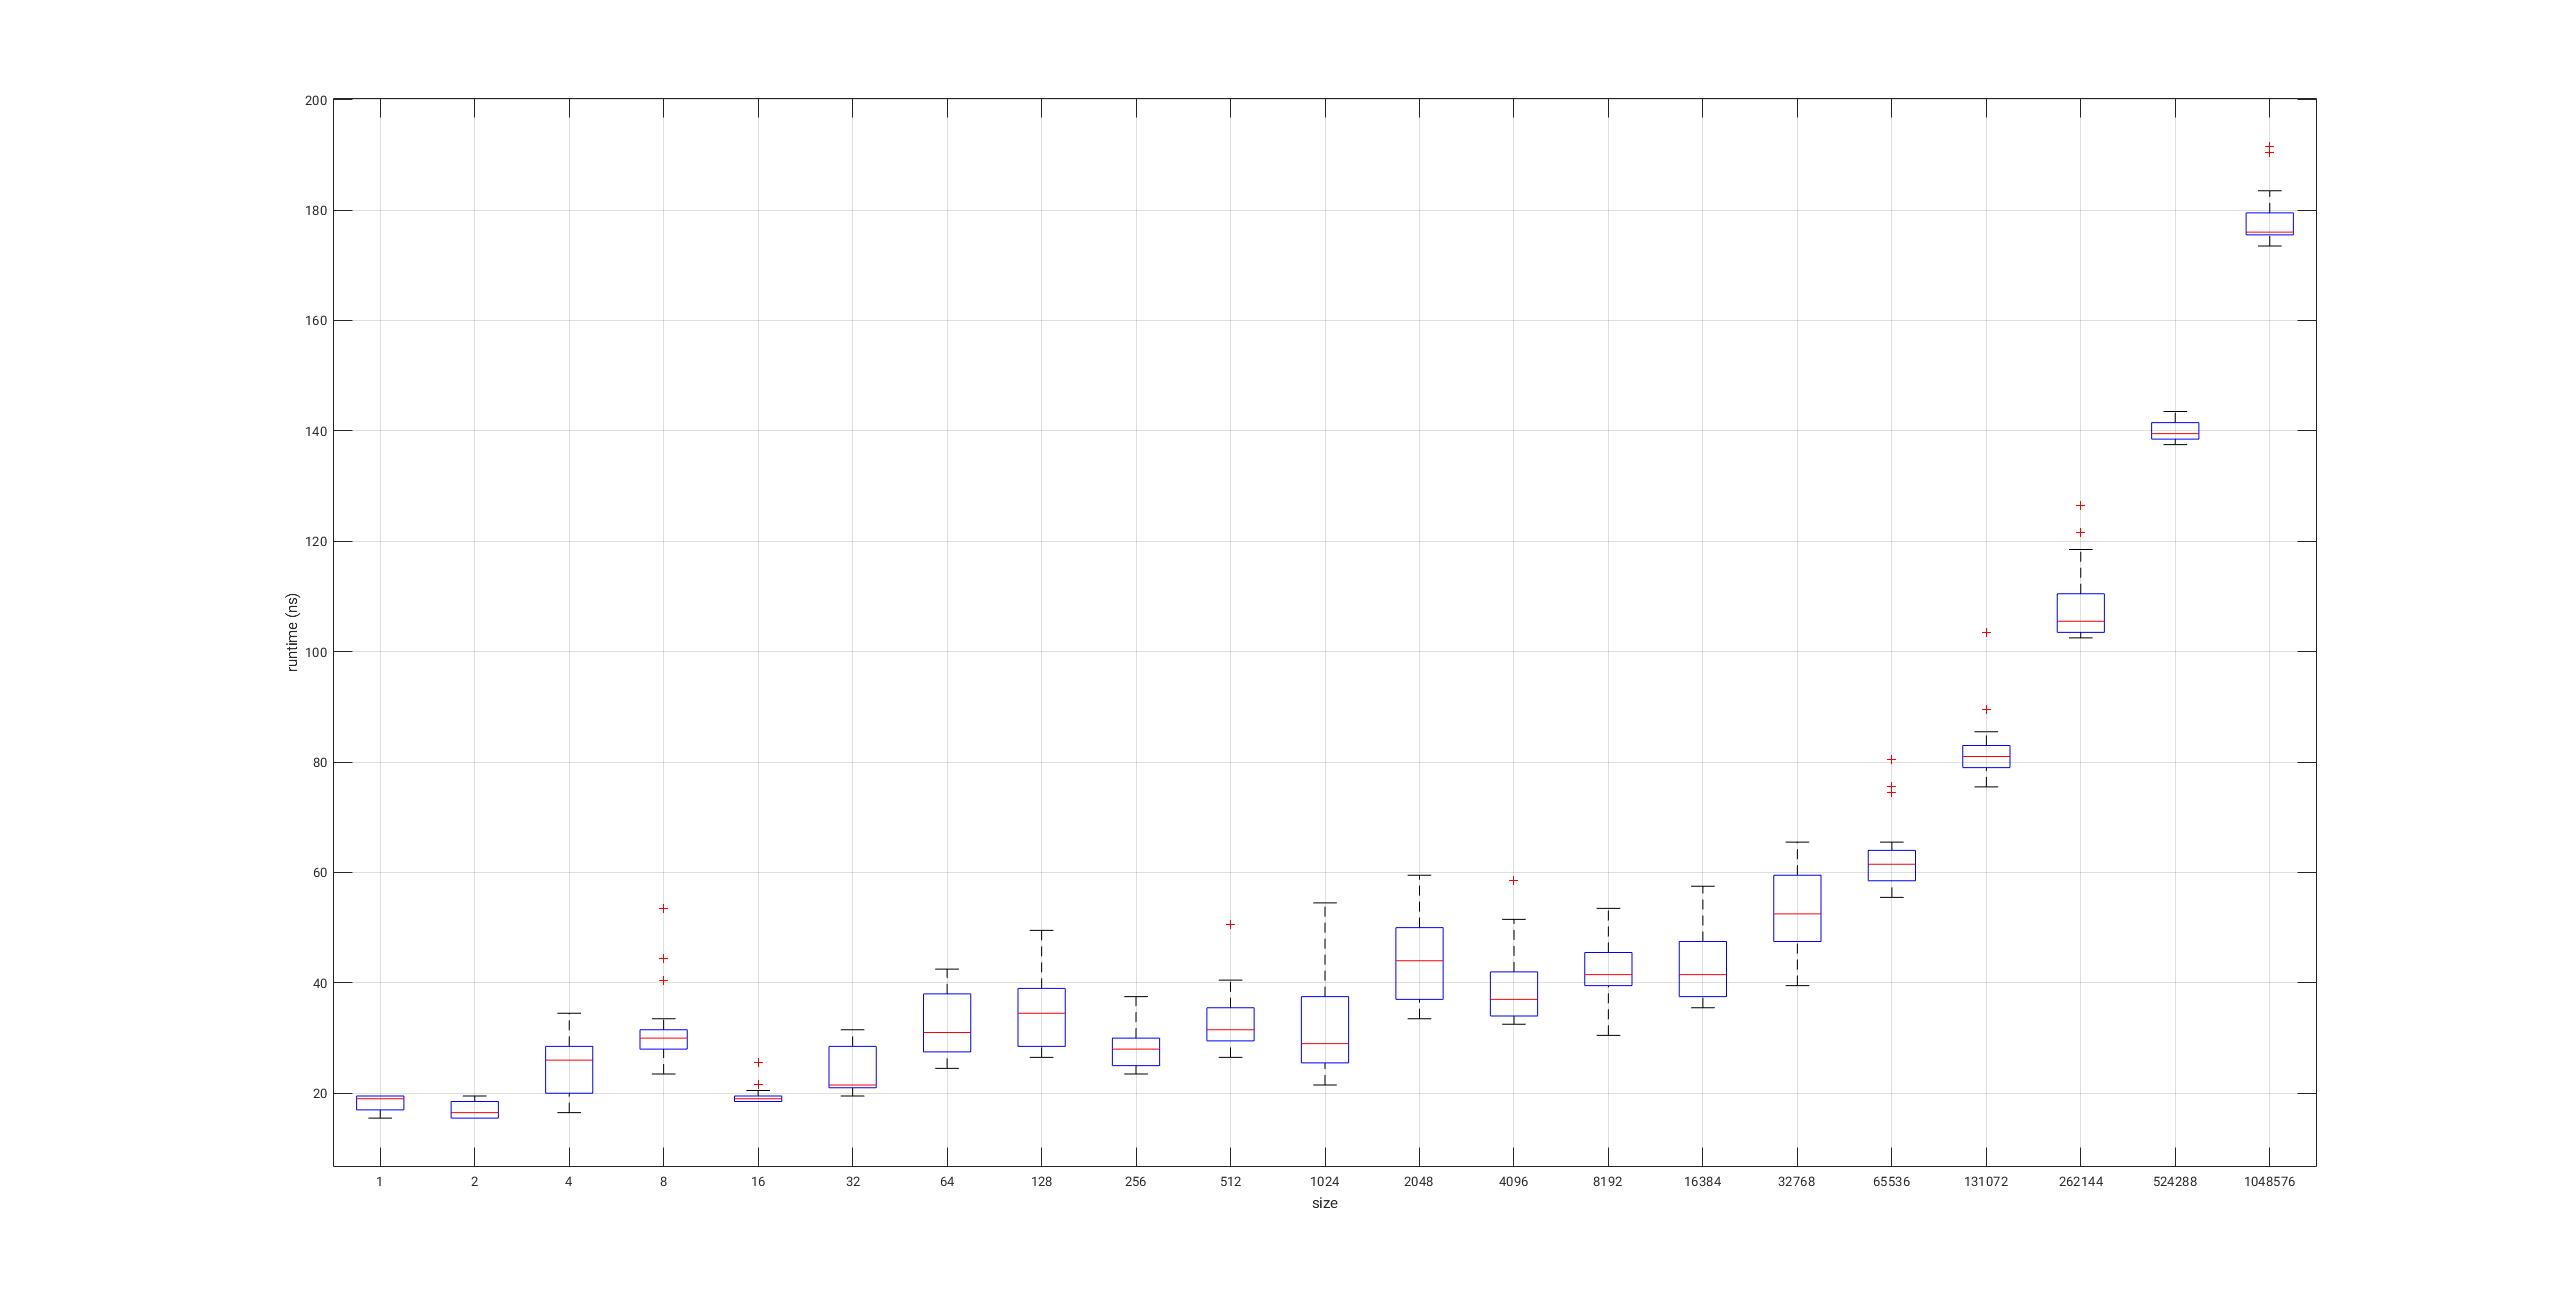
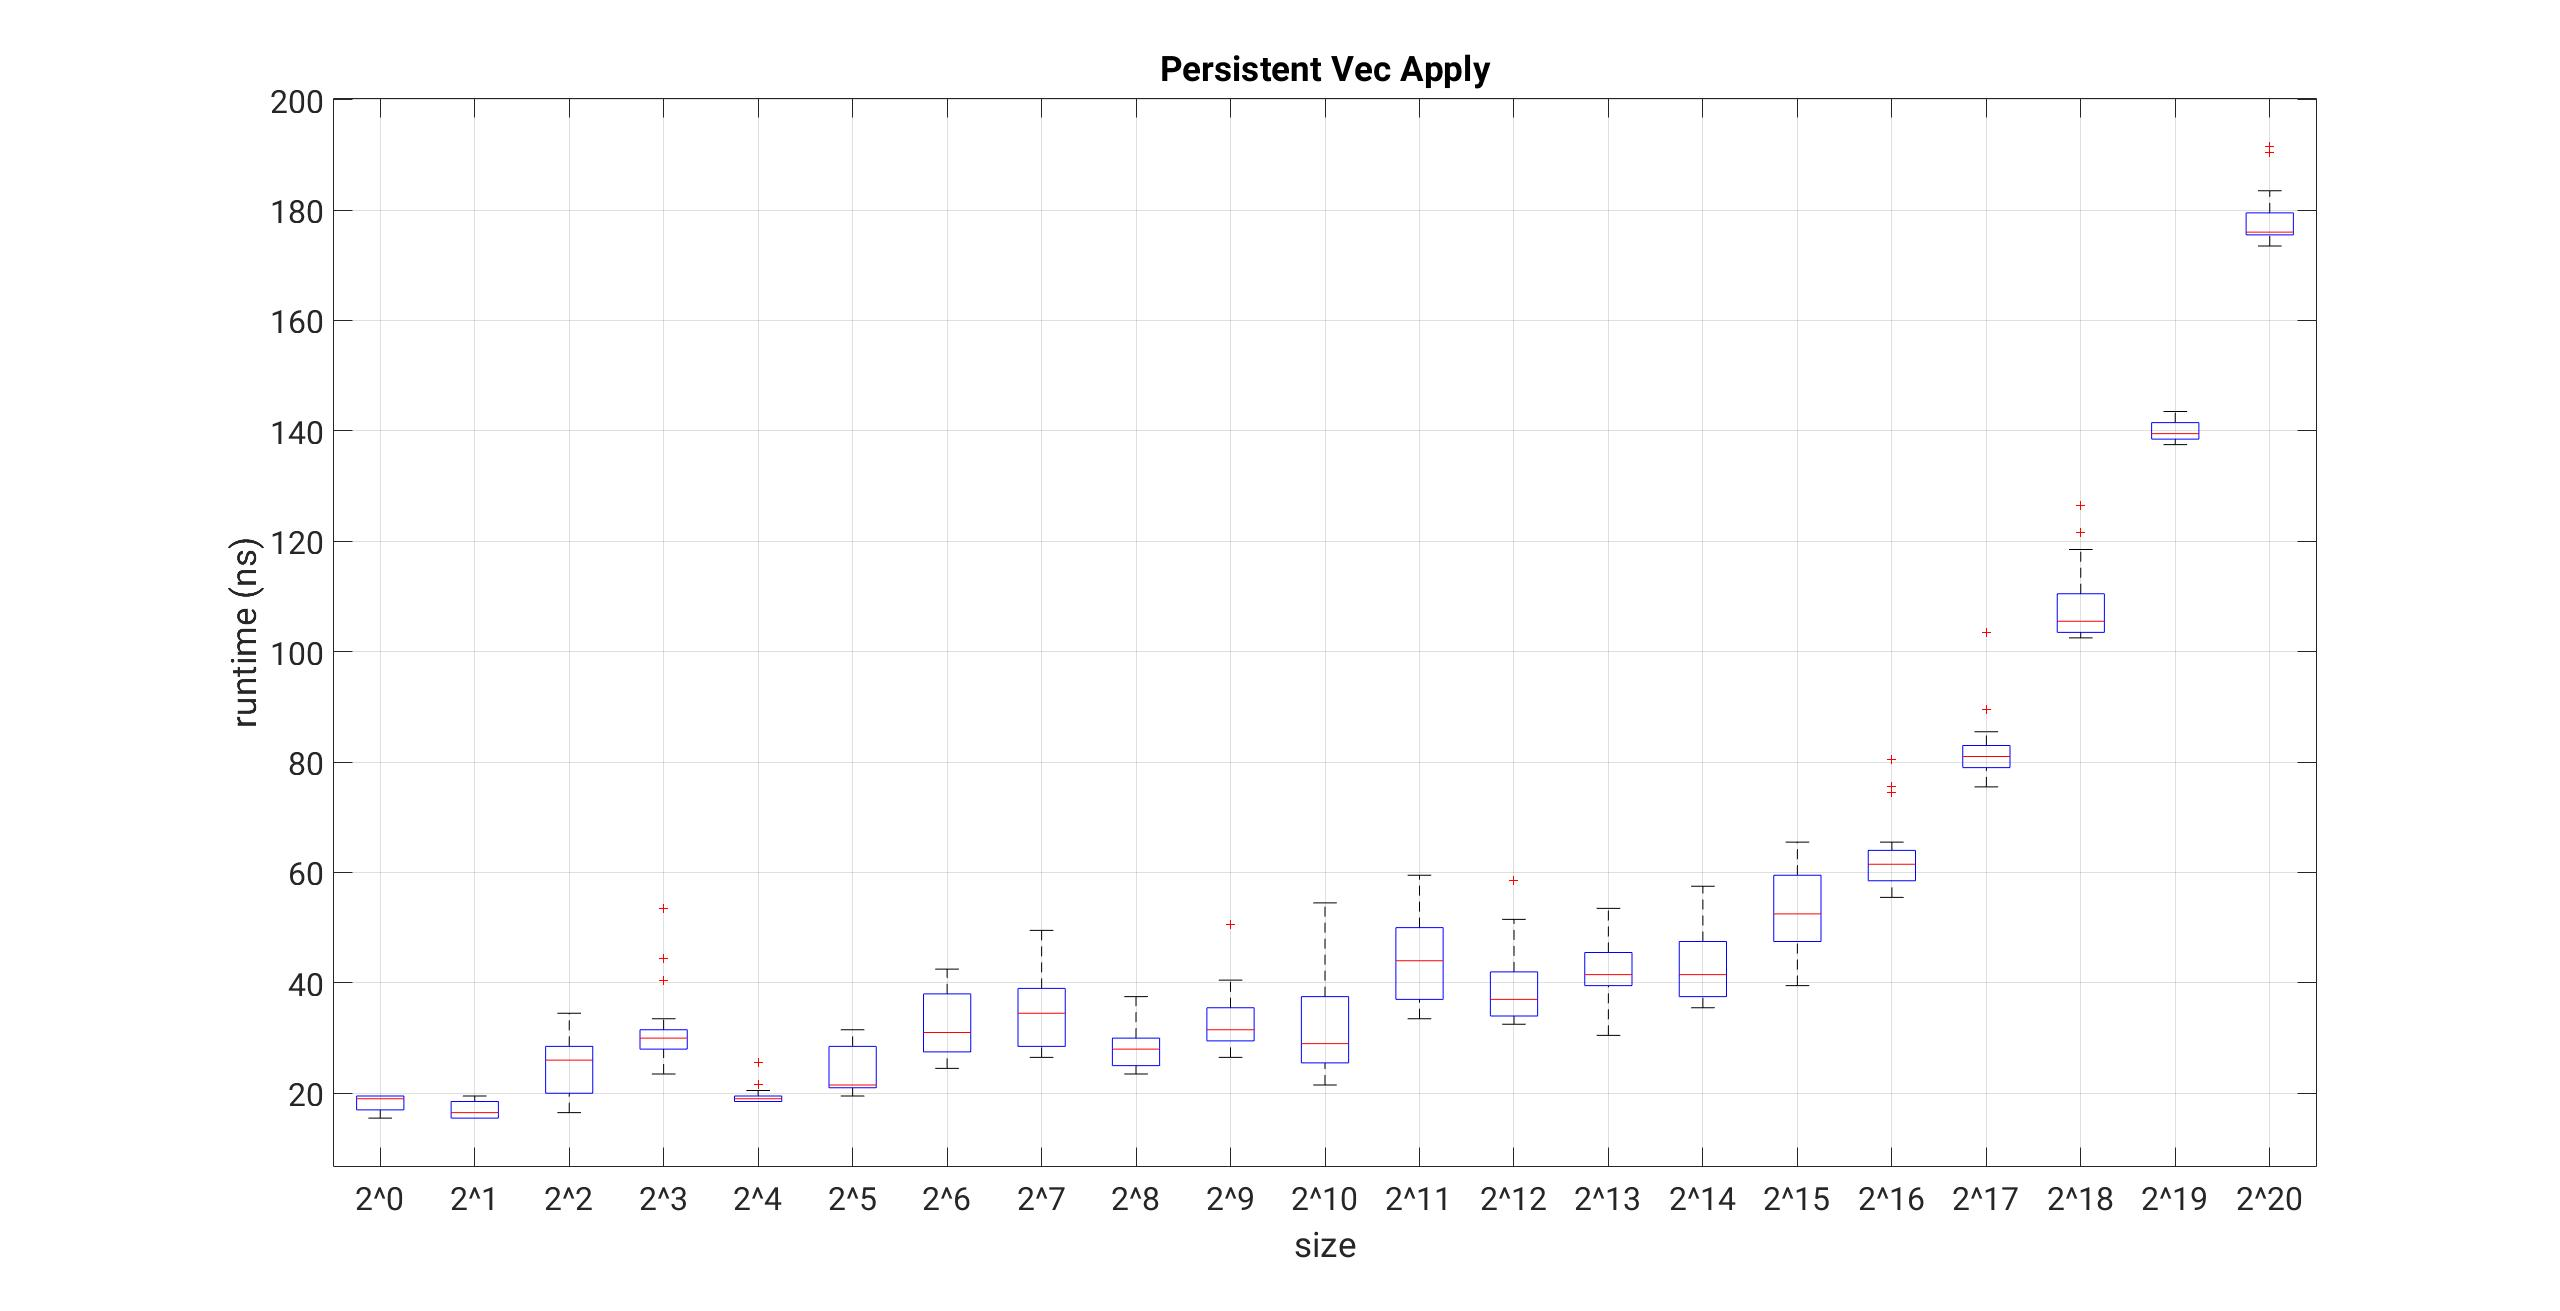
increase font size of example figs

diff --git a/examples/custom-config/charts/charts.m b/examples/custom-config/charts/charts.m
@@ -4,14 +4,18 @@ M = csvread('data.csv');
 M = M';
 overhead = median(M(:,1));
 ops = M(:,2:end);
-sizes = 2.^(0:1:20);
+pows = 0:1:20;
+sizes = 2.^pows;
 
 %% box plot
 boxplot(ops-overhead)
 grid on
-xticklabels(string(sizes))
+xticklabels('2^'+string(pows))
+title('Persistent Vec Apply')
 xlabel('size')
 ylabel('runtime (ns)')
+ax = gca;
+ax.FontSize = 24;
 
 %% histogram
 figure
@@ -20,6 +24,9 @@ for i = idxs
     histogram(ops(:,i)-overhead)
     hold on
 end
-legend('apply at size ' + string(sizes(idxs)))
+title('Histogram of Persistent Vec Apply (sizes 32^n)')
+legend('size ' + string(sizes(idxs)))
 xlabel('runtime (ns)')
 ylabel('occurences')
+ax = gca;
+ax.FontSize = 24;
